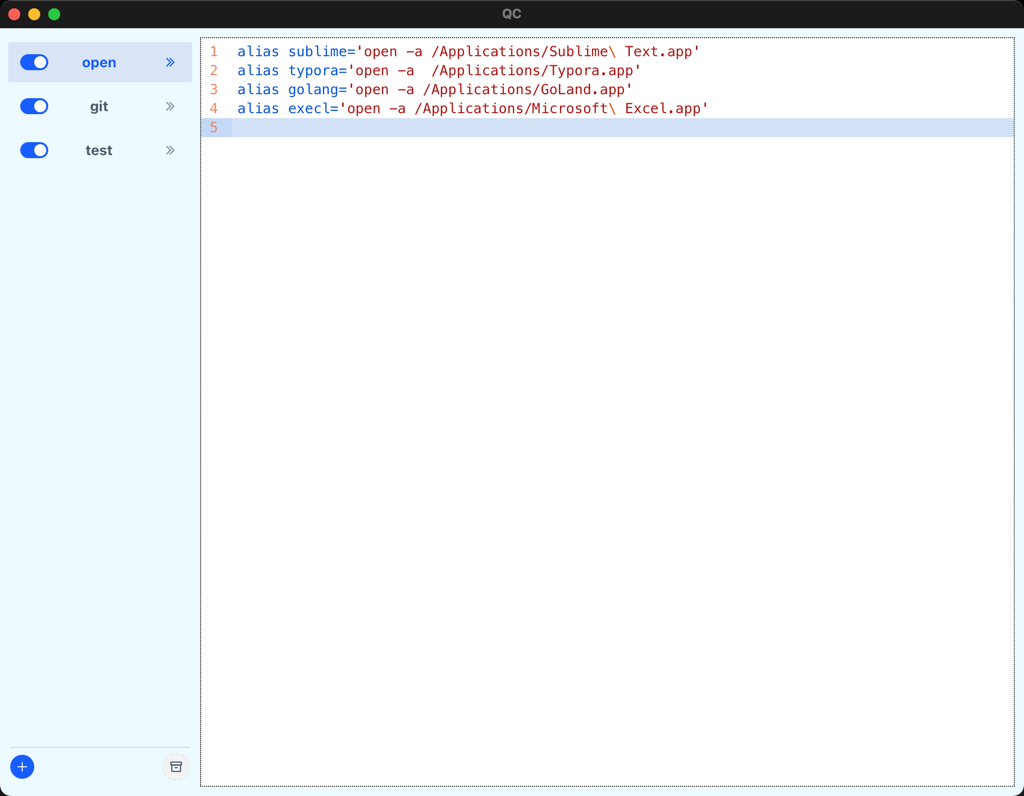
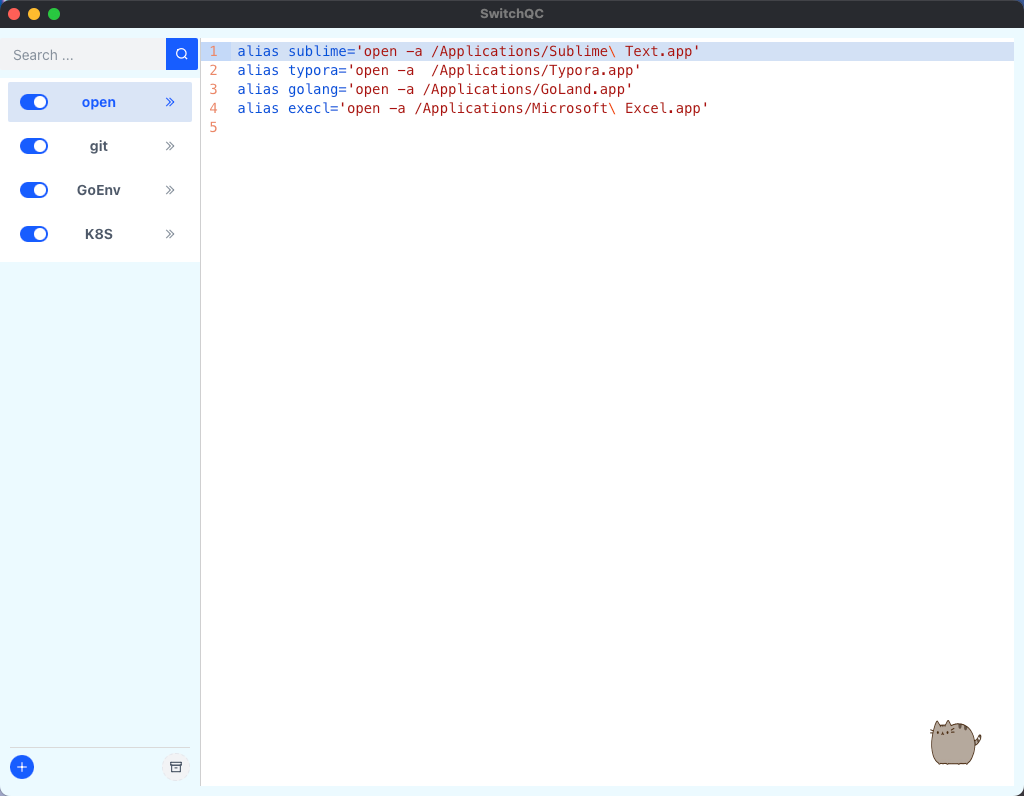
docs: update readme

diff --git a/README.md b/README.md
@@ -1,15 +1,16 @@
 <div align="center">
   <img width="200" src="build/appicon.png">
   <h1> SwitchQC</h1>
- </div>
+</div>
 
 
 ## Introduce For SwitchQC
-In the form of file classification, all aliases and variables are centralized in the desktop application for management, so that personnel can quickly find and modify the required configuration items, as well as add quick and concise commands to configure themselves.
+1. Similar to SwitchHost, SwitchQC is used to manage system variables and aliases for mac/linux;
+2. Nest user-supplied AI Chat links to chat with AI;
 
 - **Supported system**：Mac、Linux
 - **Frame**：wails2
-- **Frontend**： Vue3 + Arco
+- **Frontend**： Vue3 + Arco.design
 - **Backend**： Golang
 
 ## How to build
@@ -37,34 +38,47 @@ cp -r build/bin/SwitchQC.app /Applications
 ```
 
 ## How to Use
-**When you launch the program, the app screen is shown like this:**
-
-![img.png](images/img.png)
-
-**Click any file in the navigation bar to view and edit it:**
-
+### 1、SwitchQC Usage
+**When you launch the program, the app screen is shown like this**
 ![img_1.png](images/img_1.png)
 
-**Edit it and Open new terminal to test**
+**Add file**
 
-![img_7.png](images/img_7.png)
-![img_8.png](images/img_8.png)
+![img_2.png](images/img_2.png)
 
-**Delete file:**
+**Delete file**
 
 ![img_3.png](images/img_3.png)
 
-**Add file:**
+**Open RecycleBin**
 
 ![img_4.png](images/img_4.png)
 
-**Open RecycleBin:**
+### 2、AI Chat Usage
+**Hover the cat，click to AI chat page**
 
 ![img_5.png](images/img_5.png)
 
-**Restore or Remove file in RecycleBin:**
+**Select which AI link to visit**
 
 ![img_6.png](images/img_6.png)
+
+![img_7.png](images/img_7.png)
+
+**Manage your AI link** 
+
+![img_8.png](images/img_8.png)
+
+### 3、How to get your AI Chat
+- Come to https://cloud.dify.ai/apps?oauth_login=success to create your app，then go into app to get link
+
+![img_9.png](images/img_9.png)
+![img_10.png](images/img_10.png)
+![img_12.png](images/img_12.png)
+
+- develop your AI chat by yourself and apply to get link, you can refer it: https://github.com/Yidadaa/ChatGPT-Next-Web
+![img_11.png](images/img_11.png)
+
 
 
 ## Star History
